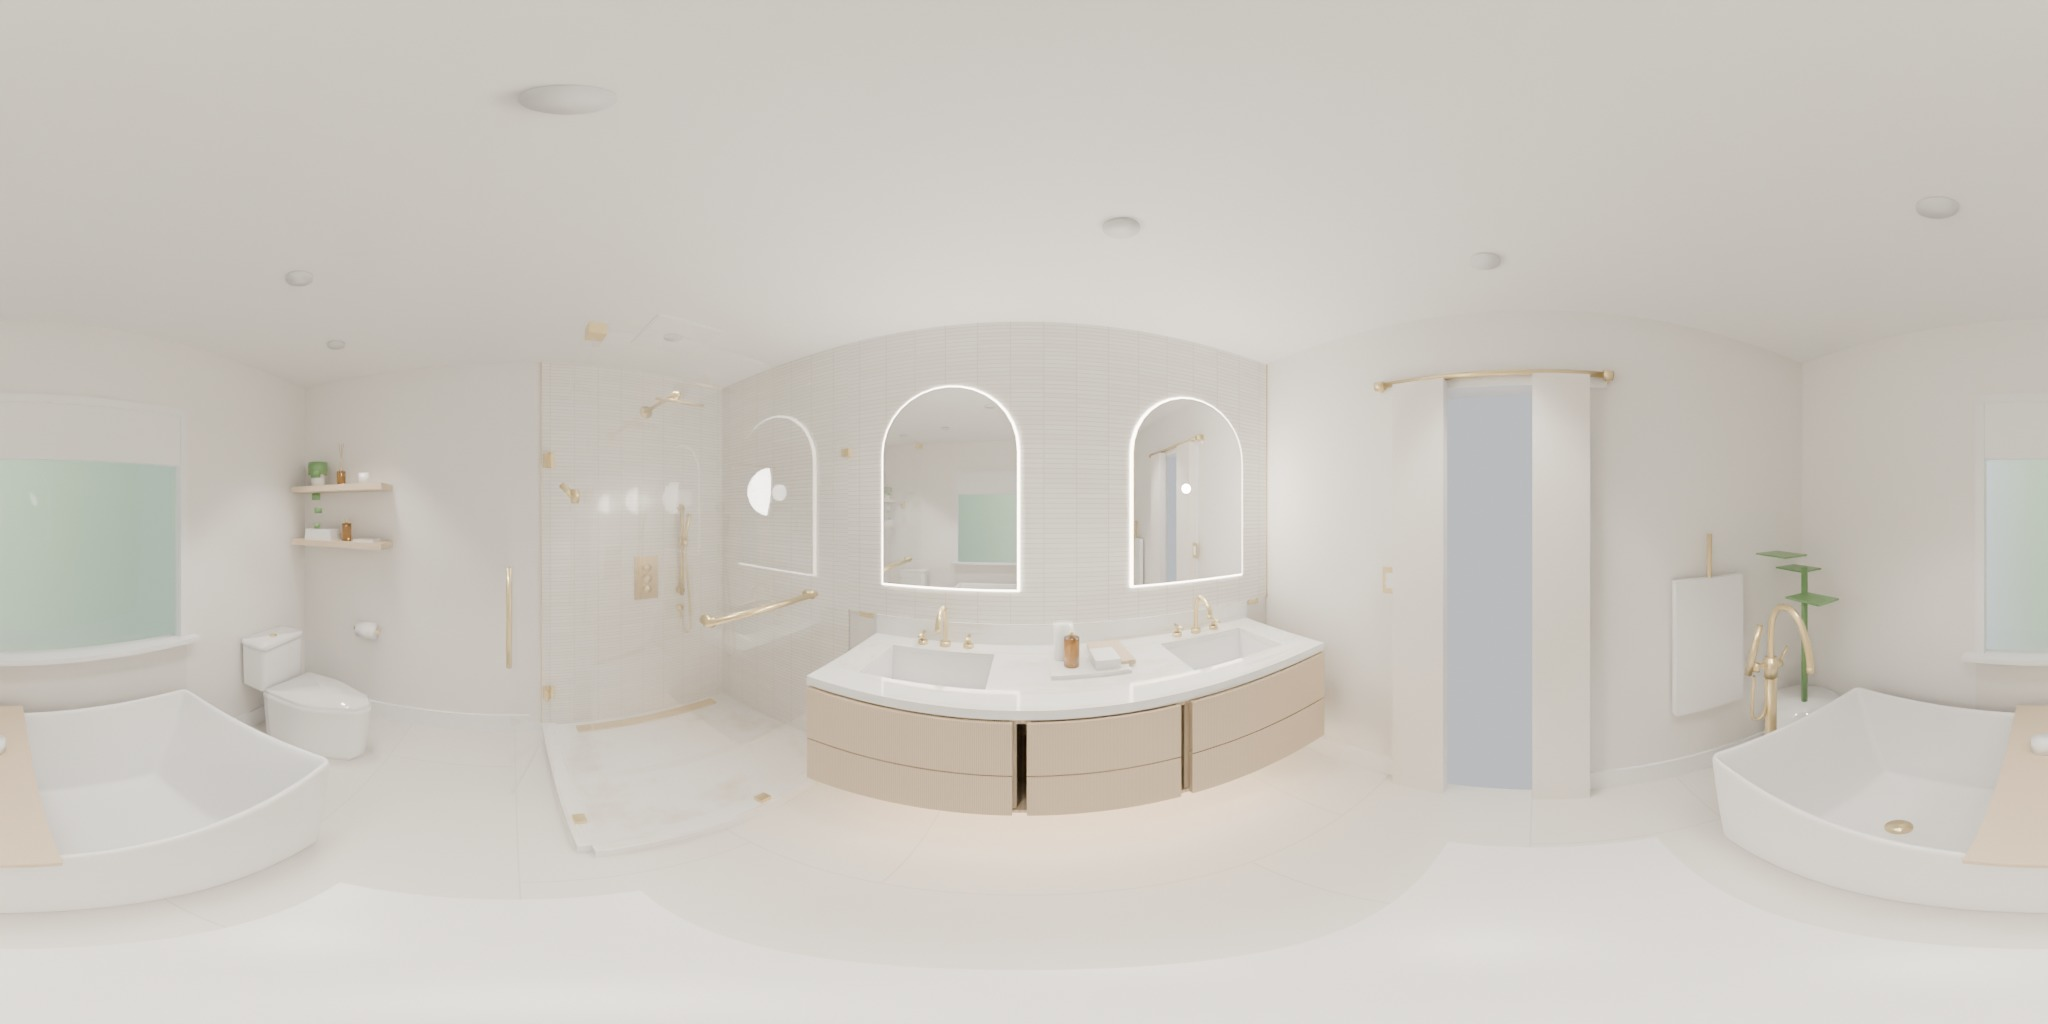
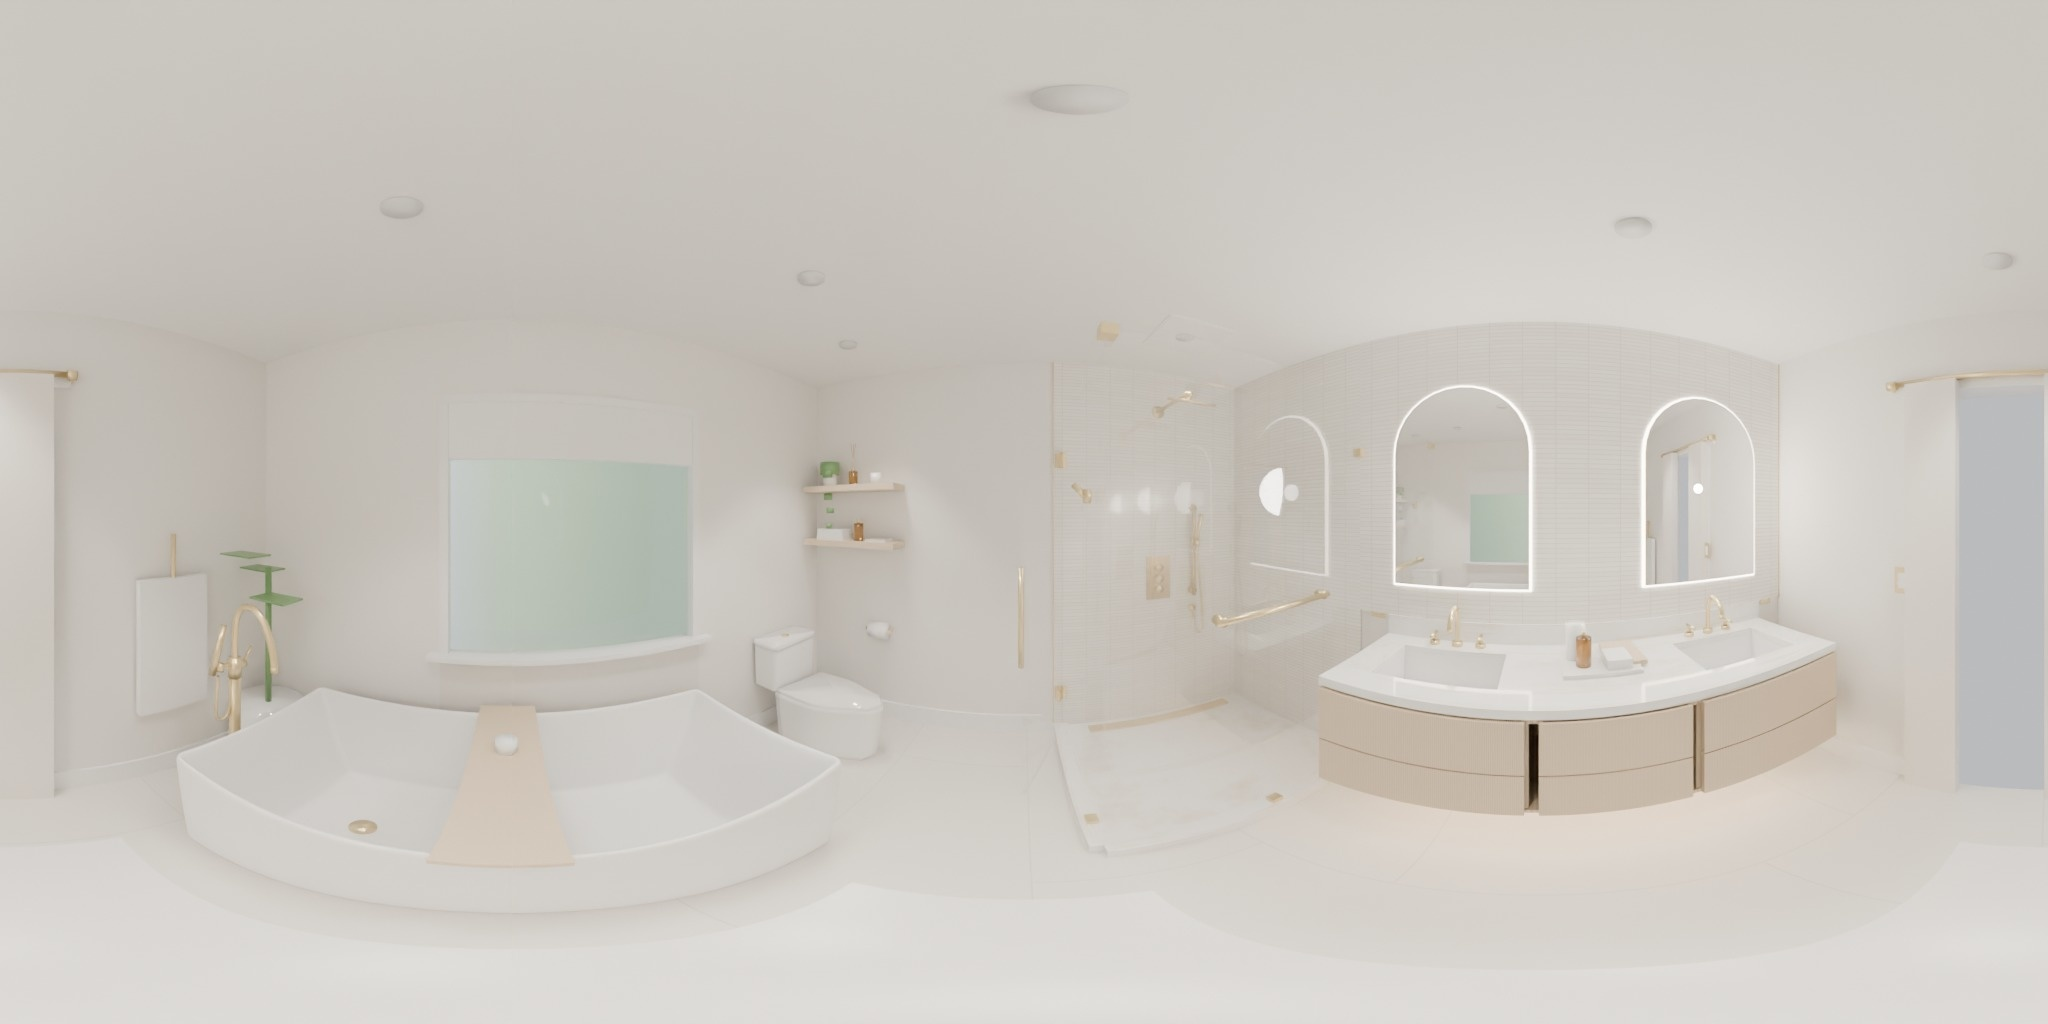
feat(3d-walkthrough): upgrade PBR textures, vertical fluted oak vanity, and calibrated finishes matching Cycles renders

diff --git a/index.html b/index.html
@@ -542,18 +542,18 @@
     orbitControls.target.set(1.61, 1.0, -1.42);
 
     // ----------------------------------------------------
-    // 2. Realistic Architectural Lighting
+    // 2. Realistic Architectural Lighting (Cycles Calibrated)
     // ----------------------------------------------------
     // Warm soft ambient fill (tuned for rich contrast with IBL environment)
-    const ambientLight = new THREE.AmbientLight(0xffeedd, 0.35);
+    const ambientLight = new THREE.AmbientLight(0xfff8ee, 0.48);
     scene.add(ambientLight);
 
     // Warm ceiling bounce & floor shadow gradient
-    const hemiLight = new THREE.HemisphereLight(0xfff7ea, 0x1a2332, 0.45);
+    const hemiLight = new THREE.HemisphereLight(0xfffcf5, 0x222b38, 0.50);
     scene.add(hemiLight);
 
     // Window sunlight (from garden window on South wall at Z = -0.5m)
-    const sunLight = new THREE.DirectionalLight(0xfffae0, 1.15);
+    const sunLight = new THREE.DirectionalLight(0xfffbf0, 1.25);
     sunLight.position.set(1.9, 2.5, 0.8);
     sunLight.target.position.set(1.6, 0.8, -1.5);
     sunLight.castShadow = true;
@@ -563,13 +563,22 @@
     scene.add(sunLight);
     scene.add(sunLight.target);
 
-    // Vanity mirror LED glow (North wall at Z = -2.55m)
-    const vanityGlow = new THREE.PointLight(0xffdfb0, 1.2, 3.5);
+    // Vanity diffuse fill light
+    const vanityGlow = new THREE.PointLight(0xffeed8, 0.8, 3.5);
     vanityGlow.position.set(2.13, 1.9, -2.1);
     scene.add(vanityGlow);
 
+    // Dual Arched Mirror Backlight Halo Lights (illuminating Kit-Kat tile wall behind each mirror)
+    const mirrorGlowL = new THREE.PointLight(0xfffaee, 1.1, 1.8);
+    mirrorGlowL.position.set(1.562, 1.62, -2.76);
+    scene.add(mirrorGlowL);
+
+    const mirrorGlowR = new THREE.PointLight(0xfffaee, 1.1, 1.8);
+    mirrorGlowR.position.set(2.698, 1.62, -2.76);
+    scene.add(mirrorGlowR);
+
     // Shower recessed niche light
-    const showerLight = new THREE.PointLight(0xffffff, 1.0, 3.5);
+    const showerLight = new THREE.PointLight(0xfffaee, 1.1, 3.5);
     showerLight.position.set(0.65, 2.1, -2.1);
     scene.add(showerLight);
 
@@ -581,20 +590,37 @@
     // Environment reflection map (real 360 panorama of this bathroom)
     textureLoader.load('renders/bathroom_360_panorama.jpg', (panoTex) => {
       panoTex.mapping = THREE.EquirectangularReflectionMapping;
+      panoTex.colorSpace = THREE.SRGBColorSpace;
       scene.environment = panoTex;
     });
 
-    // 1. Natural White Oak (Vanity & Shelves)
+    // 1. Natural White Oak (Smooth for Carcass & Shelves)
     const oakMap = textureLoader.load('textures/white_oak.jpg');
     oakMap.wrapS = THREE.RepeatWrapping;
     oakMap.wrapT = THREE.RepeatWrapping;
     oakMap.repeat.set(2, 2);
 
-    // 2. Travertine Floor Tile
+    // 1b. Fluted White Oak (Vanity Drawer Fronts)
+    const oakFlutedMap = textureLoader.load('textures/white_oak_fluted.jpg');
+    oakFlutedMap.wrapS = THREE.RepeatWrapping;
+    oakFlutedMap.wrapT = THREE.RepeatWrapping;
+    oakFlutedMap.repeat.set(2, 1);
+
+    const oakFlutedNormalMap = textureLoader.load('textures/white_oak_fluted_normal.jpg');
+    oakFlutedNormalMap.wrapS = THREE.RepeatWrapping;
+    oakFlutedNormalMap.wrapT = THREE.RepeatWrapping;
+    oakFlutedNormalMap.repeat.set(2, 1);
+
+    // 2. Travertine Floor Tile (Corso Italia 24" x 48" Rectified Porcelain)
     const floorMap = textureLoader.load('textures/floor_travertine.jpg');
     floorMap.wrapS = THREE.RepeatWrapping;
     floorMap.wrapT = THREE.RepeatWrapping;
     floorMap.repeat.set(3, 3);
+
+    const floorNormalMap = textureLoader.load('textures/floor_travertine_normal.jpg');
+    floorNormalMap.wrapS = THREE.RepeatWrapping;
+    floorNormalMap.wrapT = THREE.RepeatWrapping;
+    floorNormalMap.repeat.set(3, 3);
 
     // 3. Horizontal Kit-Kat Finger Feature Tile (Ivy Hill Motif Stacked White Matte 5.7" x 0.87")
     const kitkatMap = textureLoader.load('textures/kitkat_tile.jpg');
@@ -646,13 +672,44 @@
                 metalness: 0.0
               });
             }
-            // B. White Oak Cabinetry & Shelves
-            else if (matName.includes('White_Oak') || name.startsWith('Vanity_Drawer') || name.startsWith('Vanity_Cabinet') || name.startsWith('Toilet_Shelf_Oak') || name.includes('Trinket_Tray')) {
+            // B1. Vanity Fluted White Oak Drawer Faces
+            else if (name.startsWith('Vanity_Drawer')) {
+              child.geometry = child.geometry.clone();
+              const posAttr = child.geometry.attributes.position;
+              const count = posAttr.count;
+              const uvAttr = child.geometry.attributes.uv;
+              child.updateMatrixWorld(true);
+
+              const v = new THREE.Vector3();
+              for (let i = 0; i < count; i++) {
+                v.fromBufferAttribute(posAttr, i);
+                // In local mesh coordinates, x is horizontal across drawer face, y is vertical
+                // Using x / 0.30 and y / 0.30 produces authentic vertical fluting across all drawer faces
+                uvAttr.setXY(i, (v.x + 0.5) / 0.30, (v.y + 0.5) / 0.30);
+              }
+              uvAttr.needsUpdate = true;
+              if (child.geometry.computeTangents) {
+                try { child.geometry.computeTangents(); } catch(e) {}
+              }
+
+              child.material = new THREE.MeshStandardMaterial({
+                map: oakFlutedMap,
+                normalMap: oakFlutedNormalMap,
+                normalScale: new THREE.Vector2(0.45, 0.45),
+                color: new THREE.Color(0xf2e6d6),
+                roughness: 0.50,
+                metalness: 0.01,
+                envMapIntensity: 0.75
+              });
+            }
+            // B2. Natural Smooth Rift-Cut White Oak (Cabinet Carcass, Floating Shelves, Caddy & Trays)
+            else if (matName.includes('White_Oak') || name.startsWith('Vanity_Cabinet') || name.startsWith('Toilet_Shelf_Oak') || name.includes('Trinket_Tray') || name.includes('Caddy')) {
               child.material = new THREE.MeshStandardMaterial({
                 map: oakMap,
-                color: new THREE.Color(0xdfbe99),
-                roughness: 0.48,
-                metalness: 0.02
+                color: new THREE.Color(0xf0e3d4),
+                roughness: 0.46,
+                metalness: 0.02,
+                envMapIntensity: 0.75
               });
             }
             // C. Kit-Kat Horizontal Feature Tile (Vanity Wall, Shower North Wall & Shower West Plumbing Wall)
@@ -694,87 +751,137 @@
               child.material = new THREE.MeshStandardMaterial({
                 map: kitkatMap,
                 normalMap: kitkatNormalMap,
-                normalScale: new THREE.Vector2(0.45, 0.45),
+                normalScale: new THREE.Vector2(0.28, 0.28),
                 roughnessMap: kitkatRoughnessMap,
-                roughness: 0.36,
+                roughness: 0.42,
                 metalness: 0.02,
-                color: new THREE.Color(0xf6f4ed)
+                color: new THREE.Color(0xebe7e0),
+                envMapIntensity: 0.65
               });
             }
             // D. Calacatta Quartz: Countertop, Backsplash, Shower Curb Sills, & Recessed Niche Backing/Sill
             else if (matName.includes('Calacatta_Quartz') || name.startsWith('Vanity_Counter') || name.includes('Backsplash') || name.includes('Niche_') || name.includes('Shower_Curb')) {
               child.material = new THREE.MeshStandardMaterial({
                 map: quartzMap,
-                color: new THREE.Color(0xfcfcfb),
+                color: new THREE.Color(0xfdfdfc),
                 roughness: 0.12,
-                metalness: 0.04
+                metalness: 0.03,
+                envMapIntensity: 1.25
               });
             }
             // E. 24x48 Corso Italia Travertine Floor Tile & Sloped Shower Pan
             else if (matName.includes('Floor_Tile') || name.includes('Floor_Slab') || name.includes('Shower_Pan')) {
               child.material = new THREE.MeshStandardMaterial({
                 map: floorMap,
-                color: new THREE.Color(0xded7cc),
-                roughness: 0.45,
-                metalness: 0.05
+                normalMap: floorNormalMap,
+                normalScale: new THREE.Vector2(0.15, 0.15),
+                color: new THREE.Color(0xf4f1eb),
+                roughness: 0.42,
+                metalness: 0.04,
+                envMapIntensity: 0.85
               });
             }
-            // G. Arched Mirror Glass (Photorealistic True Mirror Reflection)
+            // F. Arched Mirror Glass (Photorealistic True Mirror Reflection)
             else if (matName.includes('Mirror') || name.startsWith('Mirror_Glass')) {
               child.material = new THREE.MeshStandardMaterial({
-                color: new THREE.Color(0x0e0e0e),
+                color: new THREE.Color(0xffffff),
                 metalness: 1.0,
-                roughness: 0.0,
-                envMapIntensity: 1.35
+                roughness: 0.005,
+                envMapIntensity: 1.65
               });
             }
-            // H. LED Accents: Mirror Halo, Recessed Shower Niche & Floating Vanity Toe-Kick
+            // G. LED Accents: Mirror Halo, Recessed Shower Niche & Floating Vanity Toe-Kick
             else if (name.startsWith('Mirror_Backlight_Frame') || name.includes('LED') || matName.includes('LED_Glow')) {
+              if (name.startsWith('Mirror_Backlight_Frame')) {
+                child.position.z += 0.008; // Nudge forward to clear the tile face
+              }
               child.material = new THREE.MeshBasicMaterial({
-                color: new THREE.Color(0xffe2b3)
+                color: new THREE.Color(0xfffaee)
               });
             }
-            // H. Brushed Brass / Champagne Bronze Fixtures
-            else if (matName.includes('Brushed_Brass') || name.startsWith('Faucet') || name.startsWith('Shower_Rain') || name.startsWith('Shower_Slide') || name.startsWith('Tub_Filler') || name.startsWith('Shower_Handheld') || name.startsWith('Towel_Bar')) {
+            // H. Champagne Bronze / Brushed Brass Fixtures
+            else if (matName.includes('Brushed_Brass') || name.startsWith('Faucet') || name.startsWith('Shower_Rain') || name.startsWith('Shower_Slide') || name.startsWith('Tub_Filler') || name.startsWith('Shower_Handheld') || name.startsWith('Towel_Bar') || name.startsWith('Shower_Linear_Drain') || name.includes('Brass') || name.includes('Drain')) {
               child.material = new THREE.MeshStandardMaterial({
-                color: new THREE.Color(0xc9a055),
+                color: new THREE.Color(0xd2b175),
                 metalness: 0.88,
-                roughness: 0.28,
-                envMapIntensity: 1.6
+                roughness: 0.24,
+                envMapIntensity: 1.8
               });
             }
-            // I. Clear Tempered Glass
+            // I. Frosted Garden Window Glass
+            else if (name.includes('Window_Glass')) {
+              child.material = new THREE.MeshPhysicalMaterial ? new THREE.MeshPhysicalMaterial({
+                color: new THREE.Color(0xd0e2d8),
+                roughness: 0.32,
+                transmission: 0.72,
+                transparent: true,
+                opacity: 0.88,
+                ior: 1.45,
+                envMapIntensity: 1.2
+              }) : new THREE.MeshStandardMaterial({
+                color: new THREE.Color(0xd0e2d8),
+                transparent: true,
+                opacity: 0.88,
+                roughness: 0.32
+              });
+            }
+            // I1b. Outdoor Garden Foliage Backdrop
+            else if (name.includes('Garden_Backdrop') || matName.includes('Garden_Backdrop')) {
+              child.material = new THREE.MeshBasicMaterial({
+                color: new THREE.Color(0x9cb8a6)
+              });
+            }
+            // I2. Clear Architectural Tempered Glass (Shower Enclosure & Door)
             else if (matName.includes('Clear_Glass') || name.startsWith('Shower_Glass')) {
               child.material = new THREE.MeshPhysicalMaterial ? new THREE.MeshPhysicalMaterial({
                 color: new THREE.Color(0xffffff),
                 transparent: true,
-                opacity: 0.28,
-                roughness: 0.05,
+                opacity: 0.22,
+                roughness: 0.03,
                 metalness: 0.05,
-                transmission: 0.92,
-                ior: 1.5
+                transmission: 0.94,
+                ior: 1.52,
+                envMapIntensity: 1.5
               }) : new THREE.MeshStandardMaterial({
                 color: new THREE.Color(0xffffff),
                 transparent: true,
-                opacity: 0.3,
-                roughness: 0.05,
+                opacity: 0.25,
+                roughness: 0.03,
                 metalness: 0.1
               });
             }
-            // J. Soaking Tub & Toilet (Gloss / Matte White)
-            else if (matName.includes('Stone_Resin') || name.includes('Tub') || name.includes('Toilet')) {
+            // J. Soaking Tub, Vessel Sinks & Toilet (Gloss / Matte White)
+            else if (matName.includes('Stone_Resin') || name.includes('Tub') || name.includes('Toilet') || name.startsWith('Sink_')) {
               child.material = new THREE.MeshStandardMaterial({
                 color: new THREE.Color(0xfcfcfc),
-                roughness: 0.25,
-                metalness: 0.02
+                roughness: 0.22,
+                metalness: 0.02,
+                envMapIntensity: 1.1
               });
             }
-            // K. Wall Paint (Warm Alabaster White)
-            else if (matName.includes('Wall_Paint') || name.startsWith('Wall_')) {
+            // K. Wall Paint & Trim (Warm Alabaster White #F8F6F2)
+            else if (matName.includes('Wall_Paint') || name.startsWith('Wall_') || name.startsWith('Baseboard_') || matName.includes('Trim_White')) {
               child.material = new THREE.MeshStandardMaterial({
-                color: new THREE.Color(0xf7f5f0),
-                roughness: 0.82,
-                metalness: 0.02
+                color: new THREE.Color(0xf8f6f2),
+                roughness: 0.84,
+                metalness: 0.01,
+                envMapIntensity: 0.7
+              });
+            }
+            // L. Amber Apothecary Glass Bottle
+            else if (name.includes('Amber_Bottle') || matName.includes('Amber_Glass')) {
+              child.material = new THREE.MeshPhysicalMaterial ? new THREE.MeshPhysicalMaterial({
+                color: new THREE.Color(0x94541e),
+                transparent: true,
+                transmission: 0.85,
+                roughness: 0.08,
+                ior: 1.54,
+                opacity: 1.0,
+                envMapIntensity: 1.5
+              }) : new THREE.MeshStandardMaterial({
+                color: new THREE.Color(0x94541e),
+                roughness: 0.15,
+                metalness: 0.1
               });
             }
           }
@@ -815,10 +922,10 @@
     // Landmarks coordinates (X, Y, Z, yaw, pitch)
     const LANDMARKS = {
       entrance: { pos: new THREE.Vector3(2.95, EYE_HEIGHT, -1.58), yaw: Math.PI / 2, pitch: 0, label: 'Doorway Entrance' },
-      vanity:   { pos: new THREE.Vector3(2.13, EYE_HEIGHT, -1.75), yaw: 0, pitch: 0.02, label: 'Vanity & Mirrors' },
-      shower:   { pos: new THREE.Vector3(0.65, EYE_HEIGHT, -1.95), yaw: Math.PI / 2, pitch: 0, label: 'Shower Enclosure' },
-      tub:      { pos: new THREE.Vector3(1.85, EYE_HEIGHT, -1.25), yaw: Math.PI, pitch: -0.12, label: 'Soaking Tub' },
-      toilet:   { pos: new THREE.Vector3(0.55, EYE_HEIGHT, -1.15), yaw: Math.PI, pitch: -0.08, label: 'Toilet Alcove' },
+      vanity:   { pos: new THREE.Vector3(2.13, 1.40, -1.25), yaw: 0, pitch: -0.06, label: 'Vanity & Mirrors' },
+      shower:   { pos: new THREE.Vector3(1.55, 1.35, -0.75), yaw: 0.635, pitch: -0.058, label: 'Shower Enclosure' },
+      tub:      { pos: new THREE.Vector3(1.92, 1.35, -2.00), yaw: Math.PI, pitch: -0.22, label: 'Soaking Tub' },
+      toilet:   { pos: new THREE.Vector3(0.95, 1.30, -1.05), yaw: 2.45, pitch: -0.08, label: 'Toilet Alcove' },
       center:   { pos: new THREE.Vector3(1.61, EYE_HEIGHT, -1.42), yaw: Math.PI / 2, pitch: 0, label: 'Room Center' }
     };
 
